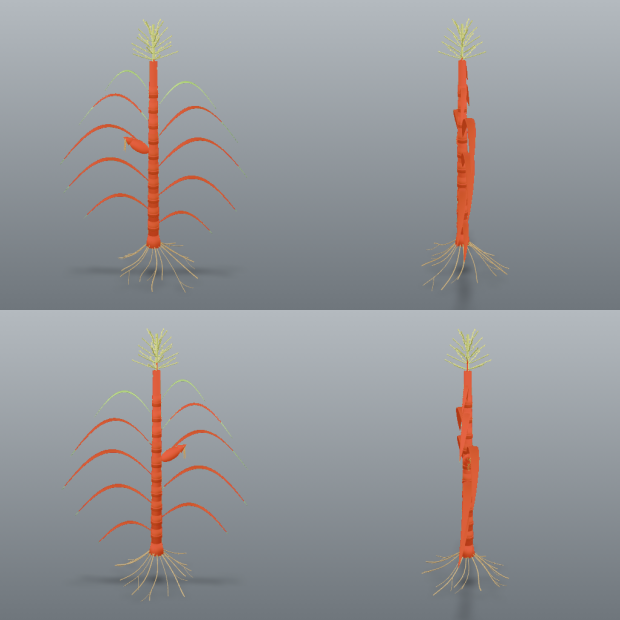
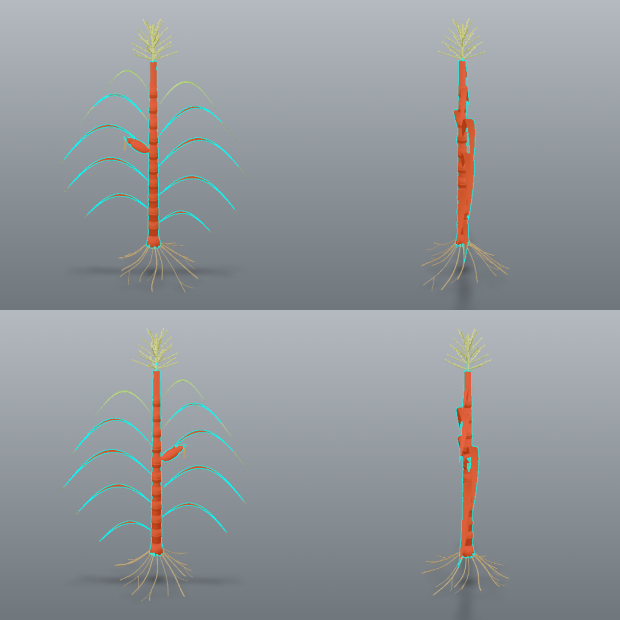
docs: README catches up with 1.3.0–1.5.0 (#45)
Audit against the shipped surface found four narrative sections still
describing pre-1.3.0 behaviour while the tools table and batch section were
current:

- overlay intro: the cyan boundary outline (1.3.0) and why it exists
- polarity: noisy_segmentation + largest_fraction, ambiguous is not quality
- refining: refine_dropped_object and the sorghum leaf it exists for
- new 'Measuring a tray' section: measure_regions on all three session
  kinds, the roi_type=partial trap, object_exceeds_region /
  object_claimed_by_neighbour / grid_misaligned with the measured ratios
- hyperspectral/thermal: threshold_outside_range, band-less refusal with
  range + percentiles, per-modality remedies, measure_regions on typed sessions

The two overlay screenshots regenerated from the same fixture with the
current renderer so the pictures show the outline the prose describes; the
stated numbers (3.1% / 9 components, 96.1%) re-verified unchanged.

Claude-Session: https://claude.ai/code/session_01Nwddi9FzWKGucy2SQf3K2Q

diff --git a/README.md b/README.md
@@ -20,7 +20,9 @@ segmentation is degenerate.
 
 ## Why you are handed the overlay
 
-Red marks the pixels that were measured. Both images below come from the same file and the
+Red marks the pixels that were measured, and a cyan line traces the mask's own boundary — the
+tint alone was invisible on a photo of red beans, so the outline is drawn on the mask's edge
+pixels and never touches anything unmasked. Both images below come from the same file and the
 same threshold method — the only difference is one parameter.
 
 | ✅ `channel="a", object_type="dark"`                                                                                   | ❌ `channel="s", object_type="dark"`                                                                                     |
@@ -181,6 +183,12 @@ And `segment` emits an `implausible_coverage` warning when the mask covers more 
 frame. Neither refuses the measurement, because a macro shot of a single leaf legitimately
 fills the frame — they make the choice visible rather than making it for you.
 
+`ambiguous` in the polarity report only compares the two polarities' coverage; it is not a
+quality verdict. A recommendation made of specks — on a sorghum photo, `a`/otsu recommended
+'dark' with 118 components of chamber-wall texture — is flagged `noisy_segmentation`, with each
+polarity's `largest_fraction` (largest component / masked pixels) reported so you can see why.
+The same rule fires as an advisory on `segment()` and blocks in the batch.
+
 `fill_size` deletes any component smaller than itself, so a small specimen can vanish
 entirely. When that happens `segment` reports `fill_erased_mask` and names the size to drop
 below, rather than letting it look like a bad channel choice.
@@ -208,6 +216,12 @@ measurable, so a refinement you dislike is simply discarded. Trait tables from a
 refined session carry `lineage`, the ops that produced their mask, so two tables
 made differently can be told apart.
 
+The refinement is traced op by op. Any component at least 10% of the largest one
+present that an op removes entirely is reported as `refine_dropped_object`, naming
+the op and the earlier op that split it off — on a real sorghum photo `opening`
+detached a leaf and `keep_largest` threw it away, a 17% change that sat under the
+`refine_large_change` alarm and showed only in the overlay.
+
 ## Morphology: leaves, stem, branch points
 
 `measure_morphology(session_id)` skeletonises the mask and returns PlantCV's
@@ -234,6 +248,26 @@ against a synthetic plant of known geometry:
 Multi-plant masks are refused by name — use `measure_regions()` for a tray or
 `refine(keep_largest)` to isolate one plant first. Lengths scale with `px_per_mm`;
 angles are always degrees.
+
+## Measuring a tray
+
+`measure_regions(session_id, nrows, ncols)` measures each plant separately and
+returns the overlay with every region outlined and numbered, so a row can be
+matched to a plant. `mode="auto_grid"` infers the grid from the mask;
+`mode="rect_grid"` takes explicit `coord`/`height`/`width`/`spacing` when the mask
+is too sparse to infer a layout or the cells must line up with pots. An empty
+region returns `measured=false` and a reason, never zeros. It works on every
+session kind: RGB traits, thermal temperatures, or hyperspectral index
+statistics (`indices`) per plant.
+
+Two guards come from a real X-Rite tray photo. PlantCV assigns an object that
+overlaps two cells **whole** to one of them, so a misaligned grid returned objects
+620–785 px wide inside 369-px cells — two plants per row — and called the other
+cell empty. A region whose object's bounding box is ≥1.25× the cell (leaf-tip
+overhang on a clean tray reaches 1.02×; merged neighbours 1.68–2.13×) carries
+`object_exceeds_region`; the cell whose material went to a neighbour says
+`object_claimed_by_neighbour` naming it; and under `auto_grid` both together raise
+`grid_misaligned`, pointing at `rect_grid`.
 
 ## What it measures
 
@@ -362,6 +396,9 @@ pseudo-RGB. Two measured facts drive the guards here:
   reflectance.
 - An index the cube's wavelength range cannot support is **refused by name**,
   not returned as null.
+- A threshold past either end of the index's range selects everything or nothing;
+  on a real leaf cube (NDVI 0.19–0.89) the default `threshold=0.2` selected every
+  pixel. `threshold_outside_range` says which side, with the range.
 
 `measure_spectral(session_id, indices=[…])` reports mean/median/std/min/max per
 index; the full per-band spectrum (hundreds of numbers per list) is opt-in via
@@ -372,8 +409,15 @@ degrees Celsius — segment **by temperature**: `segment_thermal(path, min_c,
 max_c)`. A thermal frame is a different sensor from the RGB camera, so a mask is
 never borrowed from an RGB session. `measure_thermal` reports max/min/mean/median
 °C via PlantCV's `analyze.thermal`; validated against PlantCV's own test frame to
-six decimal places and against a real FLIR JPEG. Sessions are typed (`rgb`, `hsi`,
-`thermal`) and every measurer refuses the wrong kind naming the right tool.
+six decimal places and against a real FLIR JPEG. Calling `segment_thermal` without
+a band refuses **with** the frame's range and p5–p95 percentiles (the plant is
+usually the cool tail), a band entirely outside the frame is refused naming the
+range, and one enclosing the whole frame gets `threshold_outside_range`.
+
+Sessions are typed (`rgb`, `hsi`, `thermal`) and every measurer refuses the wrong
+kind naming the right tool. Refusals and advisories are worded per modality —
+"a different channel or method" is RGB advice; a cube is told about its threshold
+and a thermal frame about its band. `measure_regions` accepts all three kinds.
 
 ## Crash containment: the analysis worker
 
